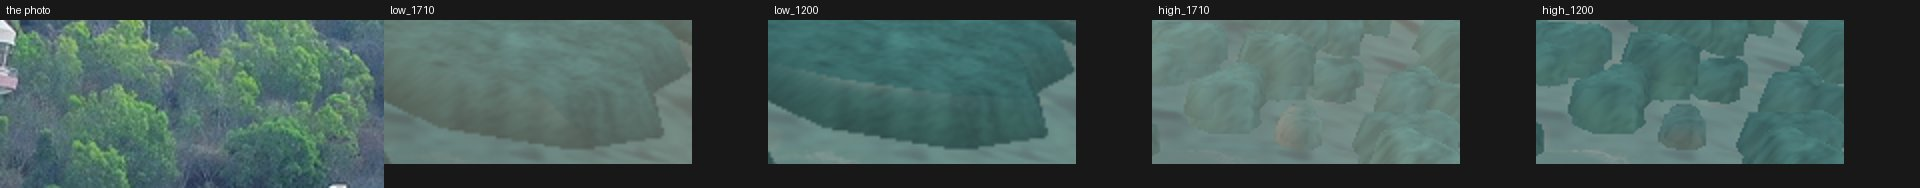
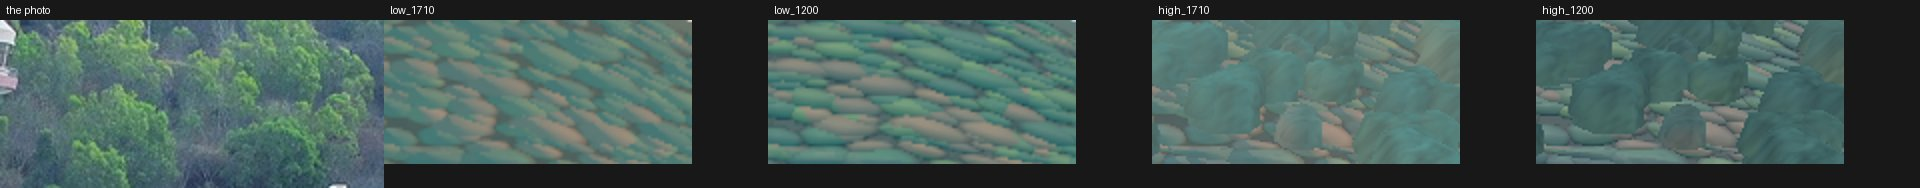
Make the sheets of the five shots again
Plan 0026, Q29: the sheets S1 to S5 of PT-72 after the corrections of audit 6. The gain of the paving of the park is 2.0 (not 2.2): at 12:00 the slabs were almost white; PT-74 run 4 still passes (the paving of the south end at 17:00 has saturation 0.18, the photo 0.16).

diff --git a/docs/plans/0026-showcase-bai-truoc.md b/docs/plans/0026-showcase-bai-truoc.md
@@ -307,7 +307,7 @@ Most photos are from 2014 and 2015. A difference from 2019 that I know is a "Che
   - **D-0026-43 (the identity of the commits).** Ten merge commits of this branch (for example `5368f60`) and one of the branch of plan 0009 (`8990b37`) had another author and committer. The history of each branch is made again with the identity of CONTRIBUTING.md (the files of each commit stay the same), and each branch was pushed with force one time. `docs/plans/0026-commits-before-d43.txt` gives the new commit of each old commit after the first of them (the reports name the old ones: `0076639` is now `9297915`), and the files of the branch that named an old commit name the new one. Each commit and each merge now has that identity (CONTRIBUTING.md). The test: the job "Identity of the commits" of `.github/workflows/test.yml` (`tools/ci/check_identity.sh`), which fails when a commit of the branch, also a merge, has another author or committer; on the old head it gives the ten merges. The check `git log --format='%an %ae %cn %ce' origin/main..HEAD | sort -u` gives only `Sơn Trần-Nguyễn github@sntran.com Sơn Trần-Nguyễn github@sntran.com`.
   - **D-0026-42 (the margin of the draw calls).** PT-73 now gives the margin of each shot and fails on Low under a margin of 40 draw calls (at most 560). It failed at S5 (597). The 40 people of S5 made 266 of its draw calls: the far level of a person of World has 7 to 11 surfaces (each garment, the skin, the eyes). `WorldModel._merge_surfaces()` makes the opaque surfaces of the far level of a person one surface with the same color at each point (the color of the material, times the vertex color, times the mean color of a map, in linear light, kept as sRGB), and the blink stays. The test of the merge: `test_the_far_level_of_a_person_is_one_surface_with_the_colors_of_its_parts` in `tests/unit/test_world_models.gd`. On Low now: S1 158 draw calls (the margin 442), S2 296 (304), S3 305 (295), S4 214 (386), S5 380 (220); S5 249 363 triangles. The far people look the same next to the screenshots of before.
   - **D-0026-23 (the far hill).** PT-72 now fails when the color patches of the box `hill` are less than half of those of the photo, or when its saturation differs from the photo by more than 0.05, at 12:00 and 17:10 on Low and High. It failed at S1 on Low at 17:10 (the color patches 0.013, the saturation 0.13; the photo 0.050 and 0.26). The crowns come from two grids (large crowns of 7 m to 12 m and small crowns of 5 m to 7 m; the highest dome at a point wins, so the crowns have many sizes and no rows). Each crown has a kind (dark green, green, yellow green, dry brown) in stands of about 25 m and dry patches of about 60 m, and its own light. From far, the bushes of the hills, the trees of the town in the canopy map, and 60 % of the crowns on the town ground of a steep slope (villas among trees) are crowns too: the lower slope at the right of S1 has no large smooth light areas. The haze over the far forest has the teal of the photo and takes `far_saturation` of `data/look/grading.json` (more in the golden hour of the Mobile renderer, whose cut of the saturation is for the sunlit sand; less in the day hours of Forward+, where the hill of S1 had 0.44 at 12:00). The far clumps of High have yellow green and dry brown clumps too. PT-33 needed a darker mean of a field of domes from far (`crown_dome_mean` 0.6): the slopes of Núi Lớn from Núi Nhỏ show a crown color at 66 % of the points at 12:00 and 63 % in June. S1 now: Low 17:10 hue 161, saturation 0.23, color patches 0.029; Low 12:00 163, 0.26, 0.042; High 17:10 168, 0.24, 0.035; High 12:00 174, 0.29, 0.029 (the photo 167, 0.26, 0.050); the autocorrelation length 3.0 px to 4.0 px (the photo 4.0 px).
-  - **D-0026-30 (what was open).** PT-74 run 4 now compares the paving of the square of the south end, from above at 17:00, with the clean slabs of the drone photo (the pixels in the outline of the square on the photo, value over 0.55: saturation 0.16) and with the sand next to it, and casts rays along its sea edge at the base and at the rail of a balustrade; run 5 checks that no ground shows between the two roads of Quang Trung (points across the space between them, under a face of a road or of a part) and that no point of a carriageway in the junction at (80, 204) is under a sidewalk. Each step failed: the paving had the saturation 0.42 (orange, more than the sand, 0.37), 41 of 50 places of the sea edge had no wall, 295 of 2 825 points between the roads were bare ground, 61 of 1 353 points of the carriageways were under a sidewalk. The corrections: the slabs take the color of the photo (`paving_texture` tint `#c2cdf1`, gain 2.2: the mean of the texture times them is the color of the slabs of the photo); the wet tone of the beach is not on the paving, the lawns, and the beds of the showcase; the square is a platform over the water (`platform` in `drawn`: the build fills its ground to the height of its land side, `level_platforms()`; the test `test_a_platform_drawn_on_a_photo_is_over_the_sea_in_the_build`), with a parapet on its sea edge (a wall of `walls` with `lines`, the low wall of the beach with no openings); the asphalt of the roads lies between the two roads of the median, also under it and where it ends; a sidewalk of `RoadBuilder` stops where it is on the carriageway of another road, and there the road has its surface to its edge (the sidewalks of Hạ Long and of Trương Công Định went across the junction: the brown strips). Now: the paving saturation 0.19 to 0.24 (the photo 0.16), 25 of 25 places with a wall, 0 bare points, 0 points under a sidewalk.
+  - **D-0026-30 (what was open).** PT-74 run 4 now compares the paving of the square of the south end, from above at 17:00, with the clean slabs of the drone photo (the pixels in the outline of the square on the photo, value over 0.55: saturation 0.16) and with the sand next to it, and casts rays along its sea edge at the base and at the rail of a balustrade; run 5 checks that no ground shows between the two roads of Quang Trung (points across the space between them, under a face of a road or of a part) and that no point of a carriageway in the junction at (80, 204) is under a sidewalk. Each step failed: the paving had the saturation 0.42 (orange, more than the sand, 0.37), 41 of 50 places of the sea edge had no wall, 295 of 2 825 points between the roads were bare ground, 61 of 1 353 points of the carriageways were under a sidewalk. The corrections: the slabs take the color of the photo (`paving_texture` tint `#c2cdf1`, gain 2.0: the mean of the texture times them is the color of the slabs of the photo); the wet tone of the beach is not on the paving, the lawns, and the beds of the showcase; the square is a platform over the water (`platform` in `drawn`: the build fills its ground to the height of its land side, `level_platforms()`; the test `test_a_platform_drawn_on_a_photo_is_over_the_sea_in_the_build`), with a parapet on its sea edge (a wall of `walls` with `lines`, the low wall of the beach with no openings); the asphalt of the roads lies between the two roads of the median, also under it and where it ends; a sidewalk of `RoadBuilder` stops where it is on the carriageway of another road, and there the road has its surface to its edge (the sidewalks of Hạ Long and of Trương Công Định went across the junction: the brown strips). Now: the paving saturation 0.19 to 0.24 (the photo 0.16), 25 of 25 places with a wall, 0 bare points, 0 points under a sidewalk.
   - **The new tools of World.** The middle block (6 storeys, its fronts on the 6th storey only) and the stair tower of glass of Hải Âu, the tower of the Palace Hotel, and the hall on the terrace of the back wing of the Grand Hotel are blocks of the rule, not hand extrudes; the porch of the Palace Hotel has 6 columns, the fascia of 1.3 m of its photos, and round corners. The factory cannot build these orders (HTTP 504 for Hải Âu, HTTP 503 for the Palace: not enough memory), so the job "Models of World" builds Hải Âu (an order of the game) and, with its new input `looks` (`drawings.py look ID --world World --mix mix.com`), the looks of the two drawings with the status Check into `docs/world/looks/`. The letters HAI AU stand on the canopy in front of the middle block, 1.65 m in front of the wall and over the top of the building: the rule puts a line over the top only on the cornice, back from its edge, so they stay tubes, and the request to World `e717ea75468e7975a0cb9906c9047407` asks for the tool. The letters of the Palace Hotel are already lines of the rule.
   - **Q27.** World did not answer the request `eeacba85` (World `main` at `0a467e6` has no change of the letters, and the factory still refuses the text VUNG TAU P&T HOTEL), so the request `196f6468a142be9d4cee0aebe23e29e4` asks again.
   - **D-0026-44 (the import files).** `tools/test.sh` now fails when the import changes an import file of the repository; it failed with the three files of `nha_khach_ha_long`, which are now the files that Godot writes. The job "Models of World" imports with Godot before it commits, so a new model has these files too.
